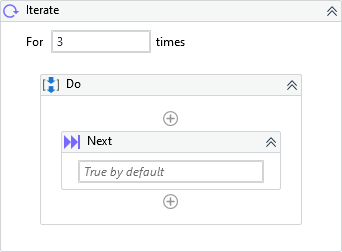
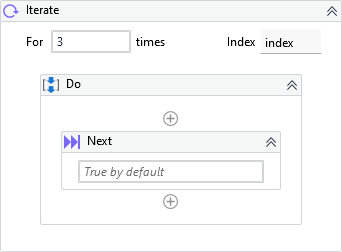
Deployed f918c02 with MkDocs version: 1.2.3

Changed region(s): [[0.6725, 0.1389, 0.9357, 0.2222], [0.3801, 0.1111, 0.5556, 0.2222]]

diff --git a/core/_changelog/index.html b/core/_changelog/index.html
@@ -385,6 +385,13 @@
     <ul class="md-nav__list" data-md-component="toc" data-md-scrollfix>
       
         <li class="md-nav__item">
+  <a href="#302-20220329" class="md-nav__link">
+    3.0.2 - 2022.03.29
+  </a>
+  
+</li>
+      
+        <li class="md-nav__item">
   <a href="#301-20220220" class="md-nav__link">
     3.0.1 - 2022.02.20
   </a>
@@ -1434,6 +1441,13 @@
     <ul class="md-nav__list" data-md-component="toc" data-md-scrollfix>
       
         <li class="md-nav__item">
+  <a href="#302-20220329" class="md-nav__link">
+    3.0.2 - 2022.03.29
+  </a>
+  
+</li>
+      
+        <li class="md-nav__item">
   <a href="#301-20220220" class="md-nav__link">
     3.0.1 - 2022.02.20
   </a>
@@ -1478,6 +1492,10 @@
 <p>All notable changes to this project will be documented in this page.</p>
 <p>The format is based on <a href="https://keepachangelog.com/en/1.0.0/">Keep a Changelog</a>,
 and this project adheres to <a href="https://semver.org/spec/v2.0.0.html">Semantic Versioning</a>.</p>
+<h2 id="302-20220329">3.0.2 - 2022.03.29</h2>
+<p><strong>Wait Dynamic File</strong> activity was updated to check files based on the <em>Last Write Time</em> instead of <em>Last Creation Time</em></p>
+<p><strong>Culture Scope</strong> and <strong>Iterate</strong> activities does not hold a variables scope anymore.</p>
+<p>The <em>Index</em> property of the <strong>Iterate</strong> scope was converted to a local variable.</p>
 <h2 id="301-20220220">3.0.1 - 2022.02.20</h2>
 <p>Small fix on <strong>Enumerate Files</strong> activity designer regarding a property binding issue with folder picker.</p>
 <h2 id="300-20220206">3.0.0 - 2022.02.06</h2>

diff --git a/core/Iterate/index.html b/core/Iterate/index.html
@@ -1459,10 +1459,6 @@
 </thead>
 <tbody>
 <tr>
-<td>Index</td>
-<td>The zero-based iteration index.</td>
-</tr>
-<tr>
 <td>Iterations</td>
 <td>The number of iterations that must be run.</td>
 </tr>
